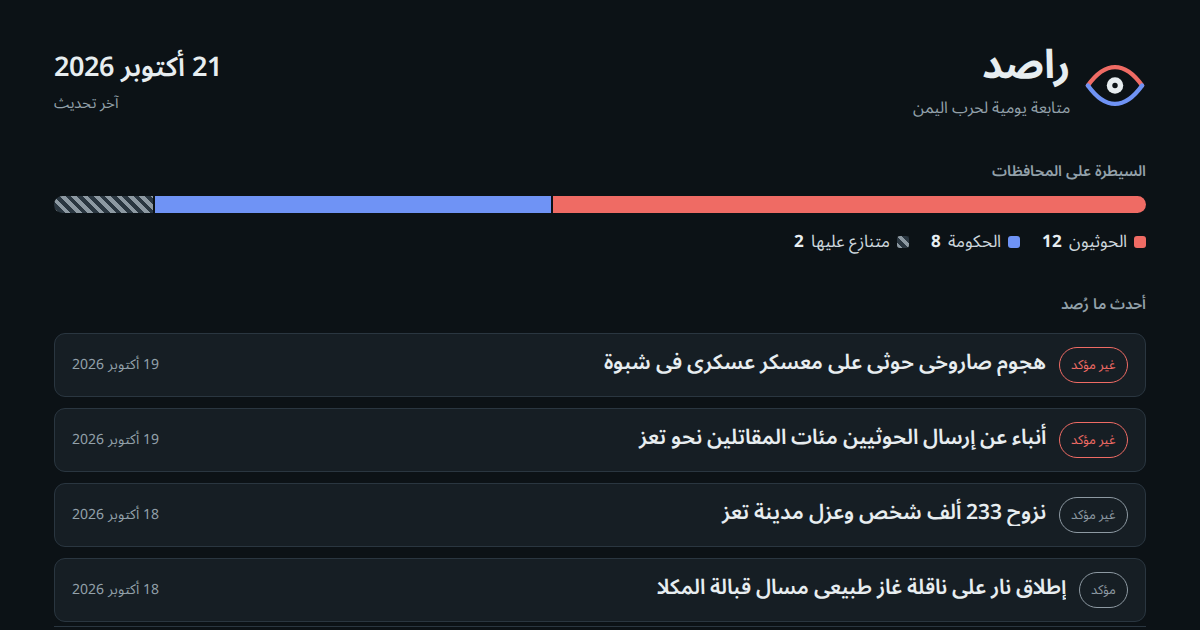
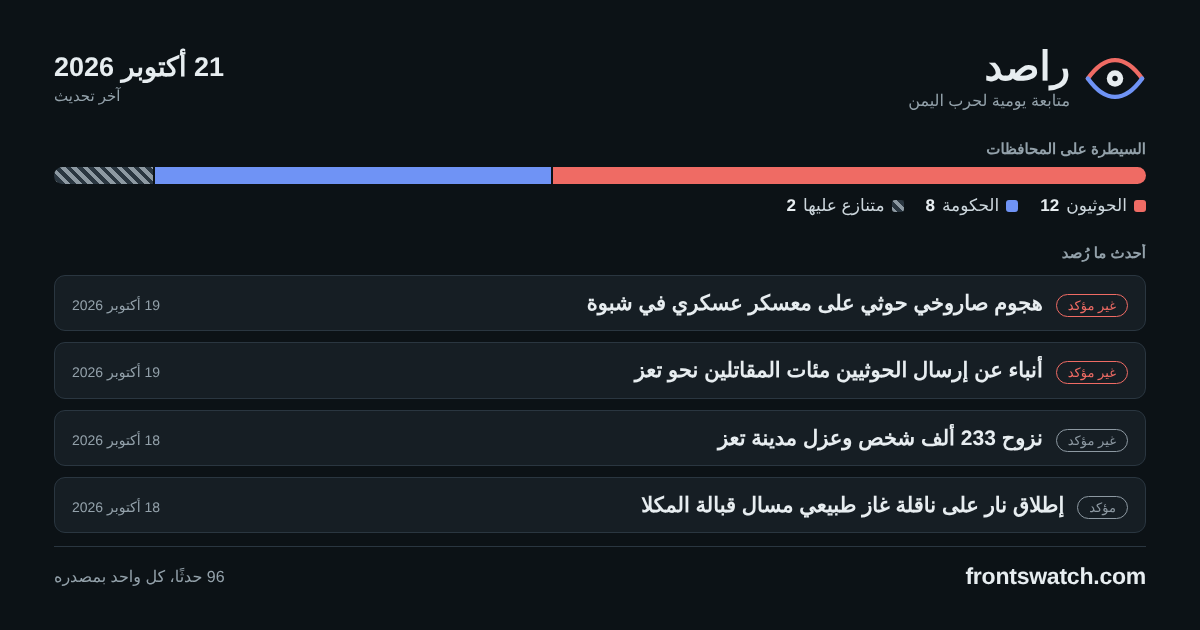
Make the daily card survive a slow font load
The first card built in CI came out wrong in two ways: the footer was
pushed off the bottom of the 630px frame, and the Arabic fell back to a
face that draws a dotless final yaa, so words like "صاروخي" read as
though they were misspelled. Both came from Google Fonts not arriving
within the fixed 1.2s wait.

Now the render waits on document.fonts.ready and checks the face is
actually there before the shot, the event list clips instead of pushing
the footer out, and the workflow installs Noto Naskh Arabic so a failed
font fetch still leaves correct Arabic rather than a broken-looking one.

Claude-Session: https://claude.ai/code/session_01W33g2DSFoKbYUJoUpPcut6

diff --git a/site/card/index.html b/site/card/index.html
@@ -26,16 +26,16 @@ body{width:1200px;height:630px;overflow:hidden;background:#0c1216;color:#e7edf0;
 .key b{font-weight:700;color:#e7edf0}
 .key .sw{width:12px;height:12px;border-radius:3px;display:block}
 
-.evs{margin-top:28px;flex:1;display:flex;flex-direction:column;gap:11px}
+.evs{margin-top:28px;flex:1;min-height:0;overflow:hidden;display:flex;flex-direction:column;gap:11px}
 .evs h2{font-size:15px;color:#93a1aa;font-weight:600;margin-bottom:2px}
-.ev{display:flex;align-items:baseline;gap:13px;background:#161e24;border:1px solid #2a3640;
+.ev{flex:none;display:flex;align-items:baseline;gap:13px;background:#161e24;border:1px solid #2a3640;
   border-radius:11px;padding:13px 17px}
 .ev .t{font-size:21px;font-weight:600;line-height:1.35;flex:1;
   overflow:hidden;text-overflow:ellipsis;white-space:nowrap}
 .ev .b{font-size:13px;padding:3px 11px;border-radius:999px;border:1px solid;white-space:nowrap}
 .ev .dt{font-size:14px;color:#93a1aa;white-space:nowrap;font-variant-numeric:tabular-nums}
 
-.foot{display:flex;align-items:center;justify-content:space-between;
+.foot{flex:none;display:flex;align-items:center;justify-content:space-between;
   border-top:1px solid #2a3640;padding-top:16px;margin-top:4px}
 .foot .u{font-family:'Archivo',sans-serif;font-size:23px;font-weight:700;letter-spacing:-.01em;direction:ltr}
 .foot .c{font-size:16px;color:#93a1aa}

diff --git a/src/gen_card.py b/src/gen_card.py
@@ -89,16 +89,16 @@ body{{width:1200px;height:630px;overflow:hidden;background:#0c1216;color:#e7edf0
 .key b{{font-weight:700;color:#e7edf0}}
 .key .sw{{width:12px;height:12px;border-radius:3px;display:block}}
 
-.evs{{margin-top:28px;flex:1;display:flex;flex-direction:column;gap:11px}}
+.evs{{margin-top:28px;flex:1;min-height:0;overflow:hidden;display:flex;flex-direction:column;gap:11px}}
 .evs h2{{font-size:15px;color:#93a1aa;font-weight:600;margin-bottom:2px}}
-.ev{{display:flex;align-items:baseline;gap:13px;background:#161e24;border:1px solid #2a3640;
+.ev{{flex:none;display:flex;align-items:baseline;gap:13px;background:#161e24;border:1px solid #2a3640;
   border-radius:11px;padding:13px 17px}}
 .ev .t{{font-size:21px;font-weight:600;line-height:1.35;flex:1;
   overflow:hidden;text-overflow:ellipsis;white-space:nowrap}}
 .ev .b{{font-size:13px;padding:3px 11px;border-radius:999px;border:1px solid;white-space:nowrap}}
 .ev .dt{{font-size:14px;color:#93a1aa;white-space:nowrap;font-variant-numeric:tabular-nums}}
 
-.foot{{display:flex;align-items:center;justify-content:space-between;
+.foot{{flex:none;display:flex;align-items:center;justify-content:space-between;
   border-top:1px solid #2a3640;padding-top:16px;margin-top:4px}}
 .foot .u{{font-family:'Archivo',sans-serif;font-size:23px;font-weight:700;letter-spacing:-.01em;direction:ltr}}
 .foot .c{{font-size:16px;color:#93a1aa}}
@@ -203,7 +203,15 @@ def shoot(html_path, png_path):
             pg = b.new_page(viewport={'width': 1200, 'height': 630},
                             device_scale_factor=1)
             pg.goto('file://' + html_path)
-            pg.wait_for_timeout(1200)          # let the webfonts land
+            try:
+                pg.wait_for_function(
+                    '() => document.fonts.ready.then('
+                    '  () => document.fonts.check(\'700 40px "Noto Sans Arabic"\'))',
+                    timeout=20000)
+            except Exception:
+                print('gen_card: the web font did not load; '
+                      'the card falls back to a system Arabic face')
+            pg.wait_for_timeout(250)
             pg.screenshot(path=png_path)
             b.close()
         return True
